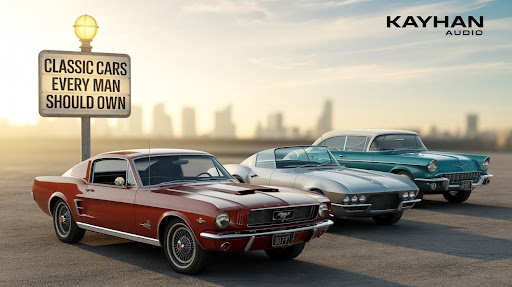
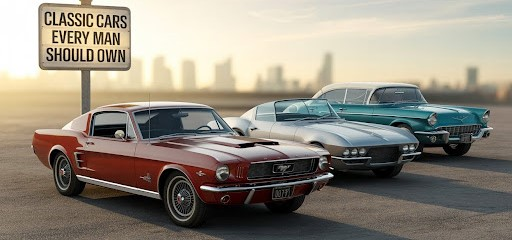
minnor change

diff --git a/components/home/ImageSlider.tsx b/components/home/ImageSlider.tsx
@@ -8,9 +8,9 @@ import Link from "next/link";
 import { Navigation, Pagination, Autoplay } from "swiper/modules";
 import { motion } from "framer-motion";
 import { useState } from "react";
-import headunit from "@/public/v6Banner.png"
-import amp from "@/public/images/Amp-banner.png"
-import speaker from "@/public/images/Speaker-Banner.png"
+import headunit from "@/public/Banner-1.png"
+import amp from "@/public/Banner 2.png"
+import speaker from "@/public/Banner 3.png"
 
 const slides = [
   {
@@ -50,7 +50,7 @@ const ImageSlider = () => {
       >
         {slides.map((slide, index) => (
           <SwiperSlide key={index}>
-            <div className="relative  w-10/12 mx-auto rounded-lg h-[250px] sm:h-[300px] ">
+            <div className="relative w-11/12 xl:w-12/13 mx-auto rounded-lg h-[250px] sm:h-[300px] ">
               <Image
                 priority={index === 0}
                 quality={100}
@@ -62,7 +62,8 @@ const ImageSlider = () => {
               />
               {index === activeSlide && (
                 <motion.div
-                  className="absolute inset-0 flex flex-col items-start justify-center p-4 sm:p-8 text-left font-serif text-white"
+                  className={`absolute inset-0 flex flex-col items-start justify-center p-4 sm:p-8 text-left font-serif
+                      ${index === 0 ? "text-black": "text-white"}`}
                   initial={{ opacity: 0, x: -50 }}
                   animate={{ opacity: 1, x: 0 }}
                   transition={{ duration: 0.8 }}
@@ -75,7 +76,7 @@ const ImageSlider = () => {
                   </p>
                   <Link
                     href={slide.slug}
-                    className="text-xs sm:text-lg border p-1 rounded border-white text-white mt-3 hover:bg-white hover:text-black transition"
+                    className={`text-xs ${index === 0 ? "text-black": "text-white"} sm:text-lg border p-1 rounded  mt-3 hover:bg-white hover:text-black transition`}
                   >
                     Shop Now
                   </Link>

diff --git a/components/layout/ShopFooter.tsx b/components/layout/ShopFooter.tsx
@@ -52,18 +52,18 @@ const ShopFooter: React.FC = () => {
             Car audio expert is one of the fastest-growing manufacturers of car entertainment products. Founded in Germany in 1997.
           </p>
           <div className="flex gap-3 mt-4 text-lg">
-            <Link href="https://www.facebook.com/KayhanAudio/" target="_blank">
+            <Link href="https://www.facebook.com/search/top?q=car%20audio%20expert" target="_blank">
               <FaFacebook className="hover:text-white text-blue-500" />
             </Link>
-            <Link href="https://x.com/AudioKayhan" target="_blank">
+            {/* <Link href="https://x.com/AudioKayhan" target="_blank">
               <FaTwitter className="hover:text-white text-blue-400" />
-            </Link>
-            <Link href="https://www.instagram.com/kayhanaudio/" target="_blank">
+            </Link> */}
+            <Link href="https://www.instagram.com/car.audio.expert/" target="_blank">
               <FaInstagram className="hover:text-white text-pink-500" />
             </Link>
-            <Link href="https://www.youtube.com/@KAYHANAUDIO" target="_blank">
+            {/* <Link href="https://www.youtube.com/@KAYHANAUDIO" target="_blank">
               <FaYoutube className="hover:text-white text-red-600" />
-            </Link>
+            </Link> */}
           </div>
         </div>
 

diff --git a/components/home/Accessories.tsx b/components/home/Accessories.tsx
@@ -17,12 +17,12 @@ const Accessories = () => {
     slug:"products?category=satnav-stereo"
   },
   {
-    name: "audio-equipments",
+    name: "Audio equipments",
     image: audioequipments,
     slug:"products?category=audio-equipments"
   },
   {
-    name: "sterring wheel",
+    name: "Steering Wheel's",
     image: sterringwheel,
     slug:"products?category=steering-wheel"
   },
@@ -33,13 +33,13 @@ const Accessories = () => {
 
   },
   {
-    name: "Frames fascias",
+    name: "Frame's & Fascia's",
     image: fa,
     slug:"products?category=frames-fascias"
 
   },
   {
-    name: "accessories",
+    name: "Accessories",
     image: abc,
     slug:"products?category=accessories"
   },
@@ -73,7 +73,7 @@ const Accessories = () => {
 
             <div className="flex flex-col justify-center">
               <h2 className="text-base hidden md:block sm:text-xl font-semibold">{name}</h2>
-              <p className="text-xs hidden md:block sm:text-sm text-gray-600">(100) items Available</p>
+              {/* <p className="text-xs hidden md:block sm:text-sm text-gray-600">(100) items Available</p> */}
             </div>
             {/* </Link> */}
           </Link>

diff --git a/app/page.tsx b/app/page.tsx
@@ -7,14 +7,15 @@ import AudioSection from '@/components/home/AudioSection'
 import NewArrivals from '@/components/home/newArrivals'
 const page = () => {
   return (
-    <div>
-      <div>
+    <div className='xl:max-w-[1700px] mx-auto'>
+     <div >
+
         <HeroSection />
       </div>
       <div>
         <WhatWeOffer />
       </div>
-      <div>
+      <div className='xl:w-13/14 mx-auto'>
       <SteeringMatchFinder />
       </div>
       <Accessories />

diff --git a/components/home/HeroSection.tsx b/components/home/HeroSection.tsx
@@ -1,7 +1,5 @@
 import React from 'react';
 import ImageSlider from './ImageSlider';
-import Image from 'next/image';
-import sideImage from '@/public/mian-sideimage.png';
 
 const HeroSection = () => {
   return (
